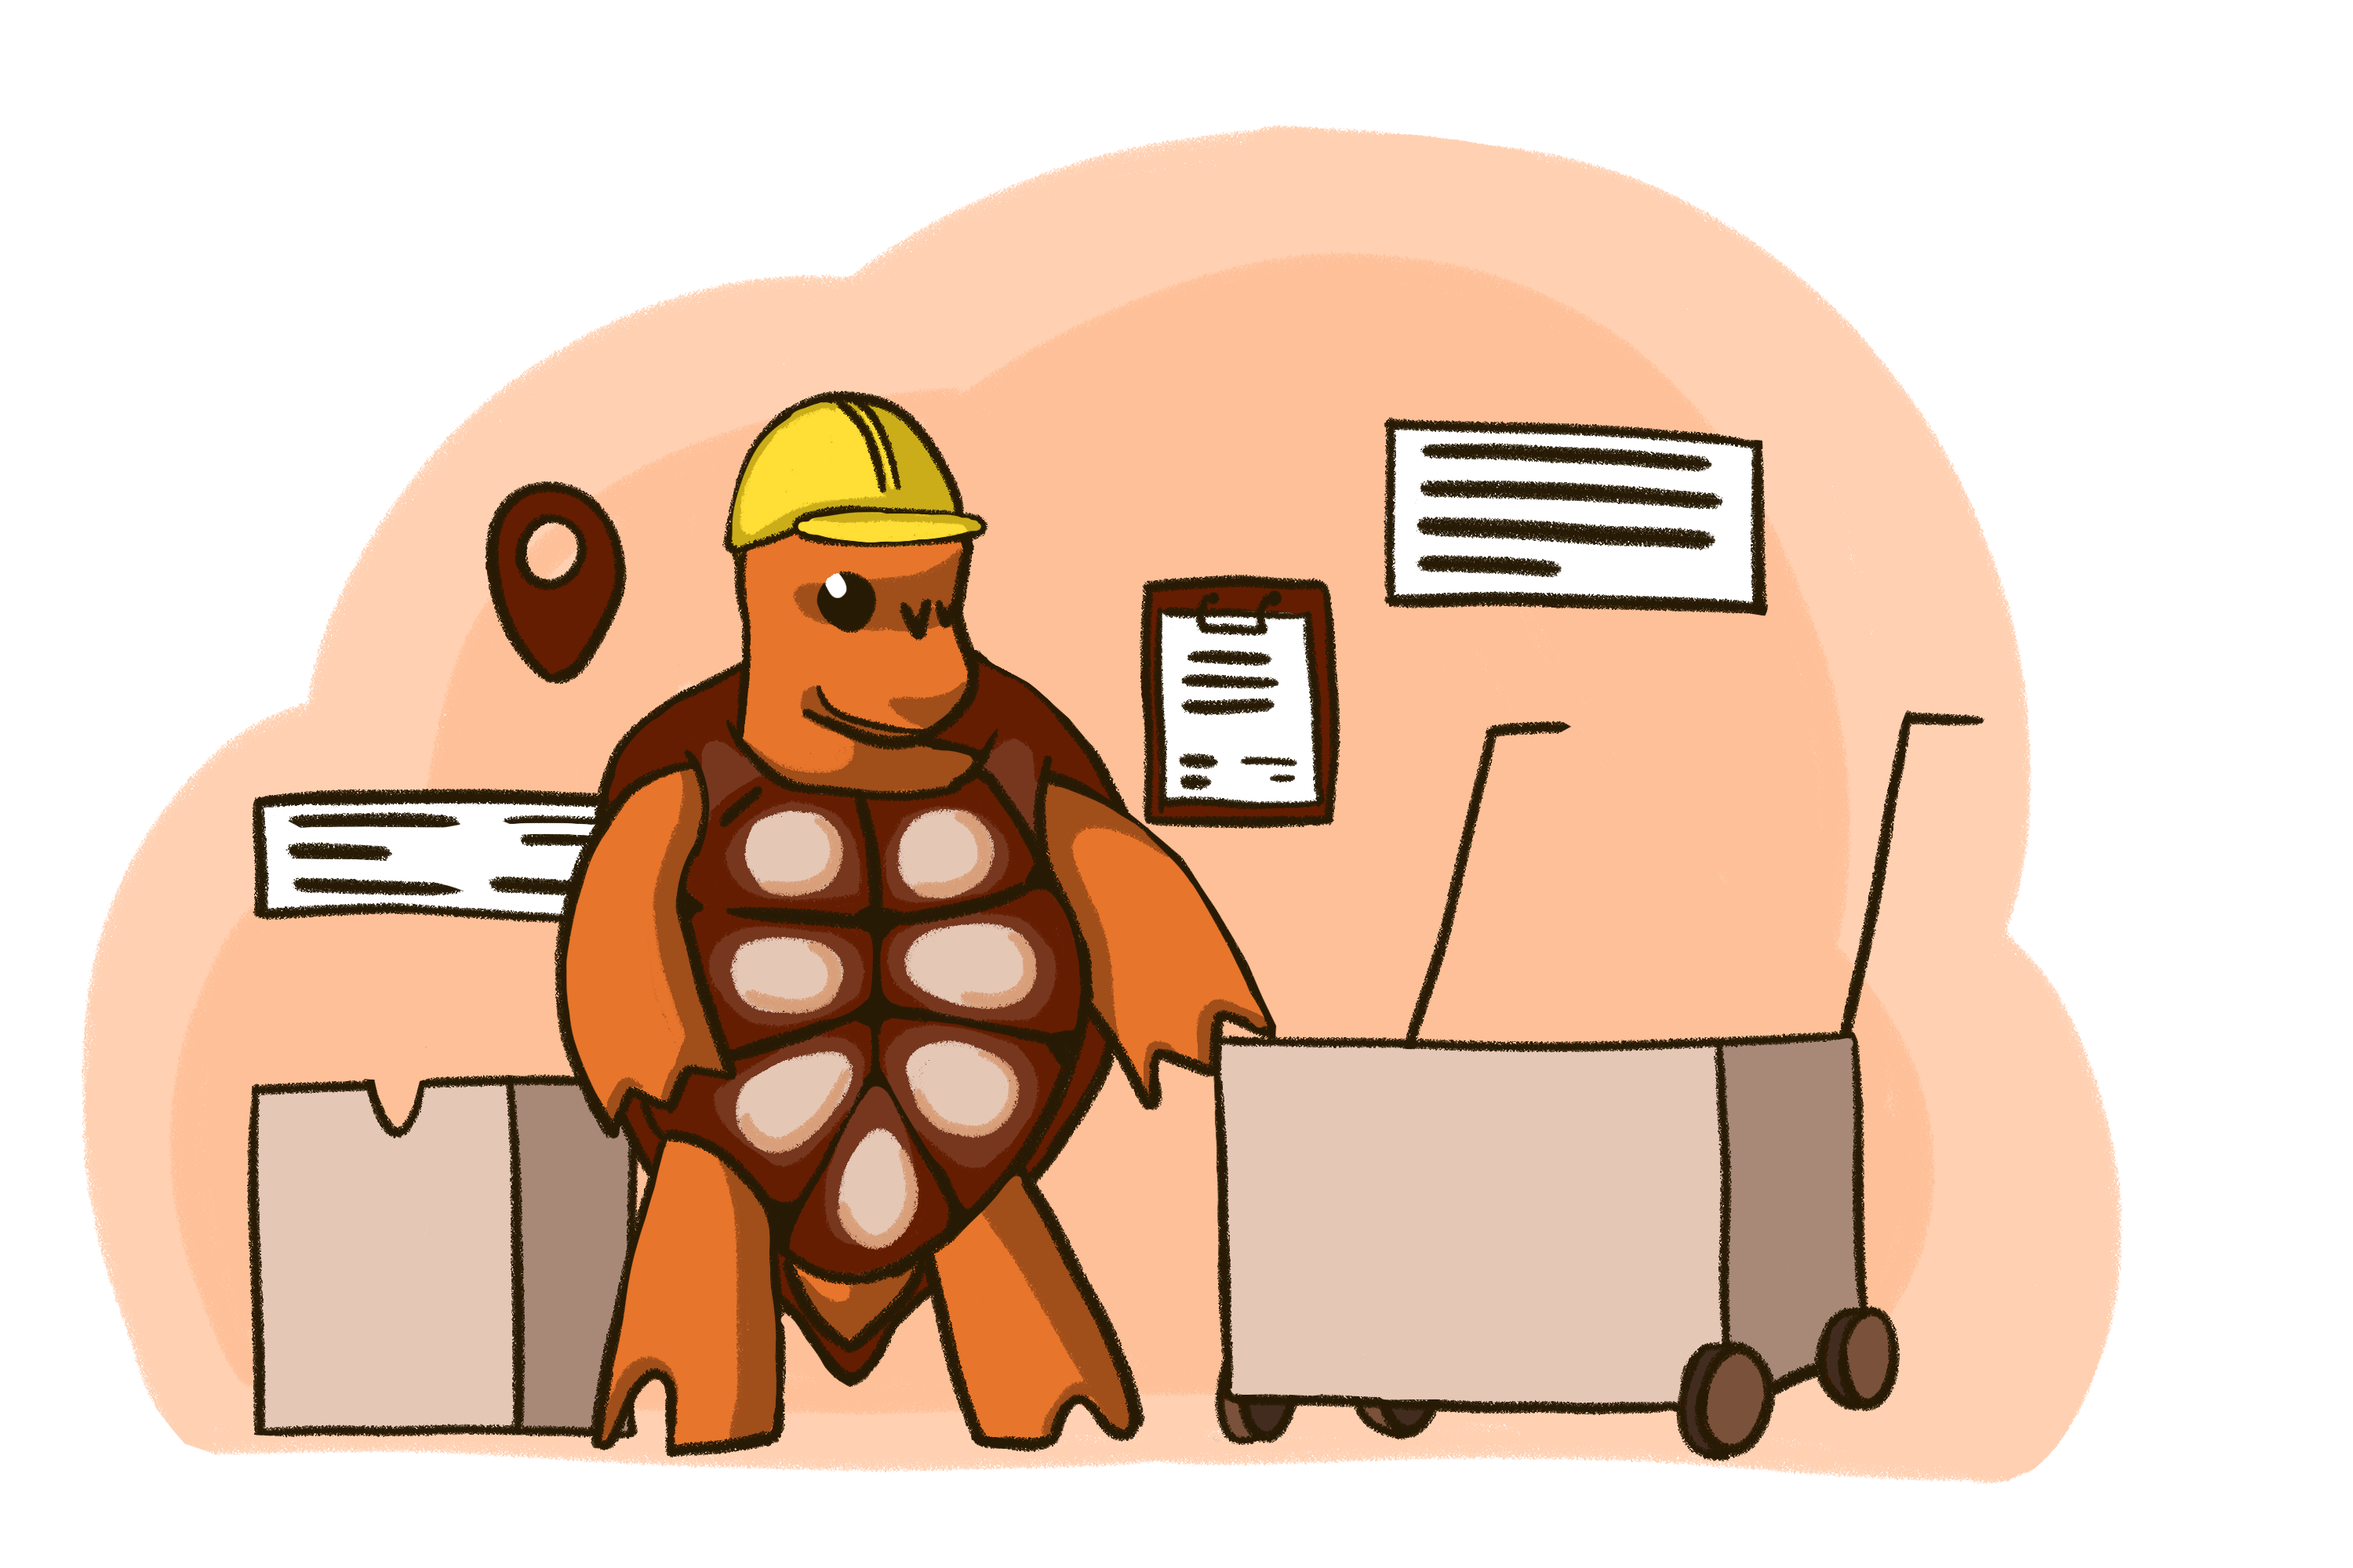
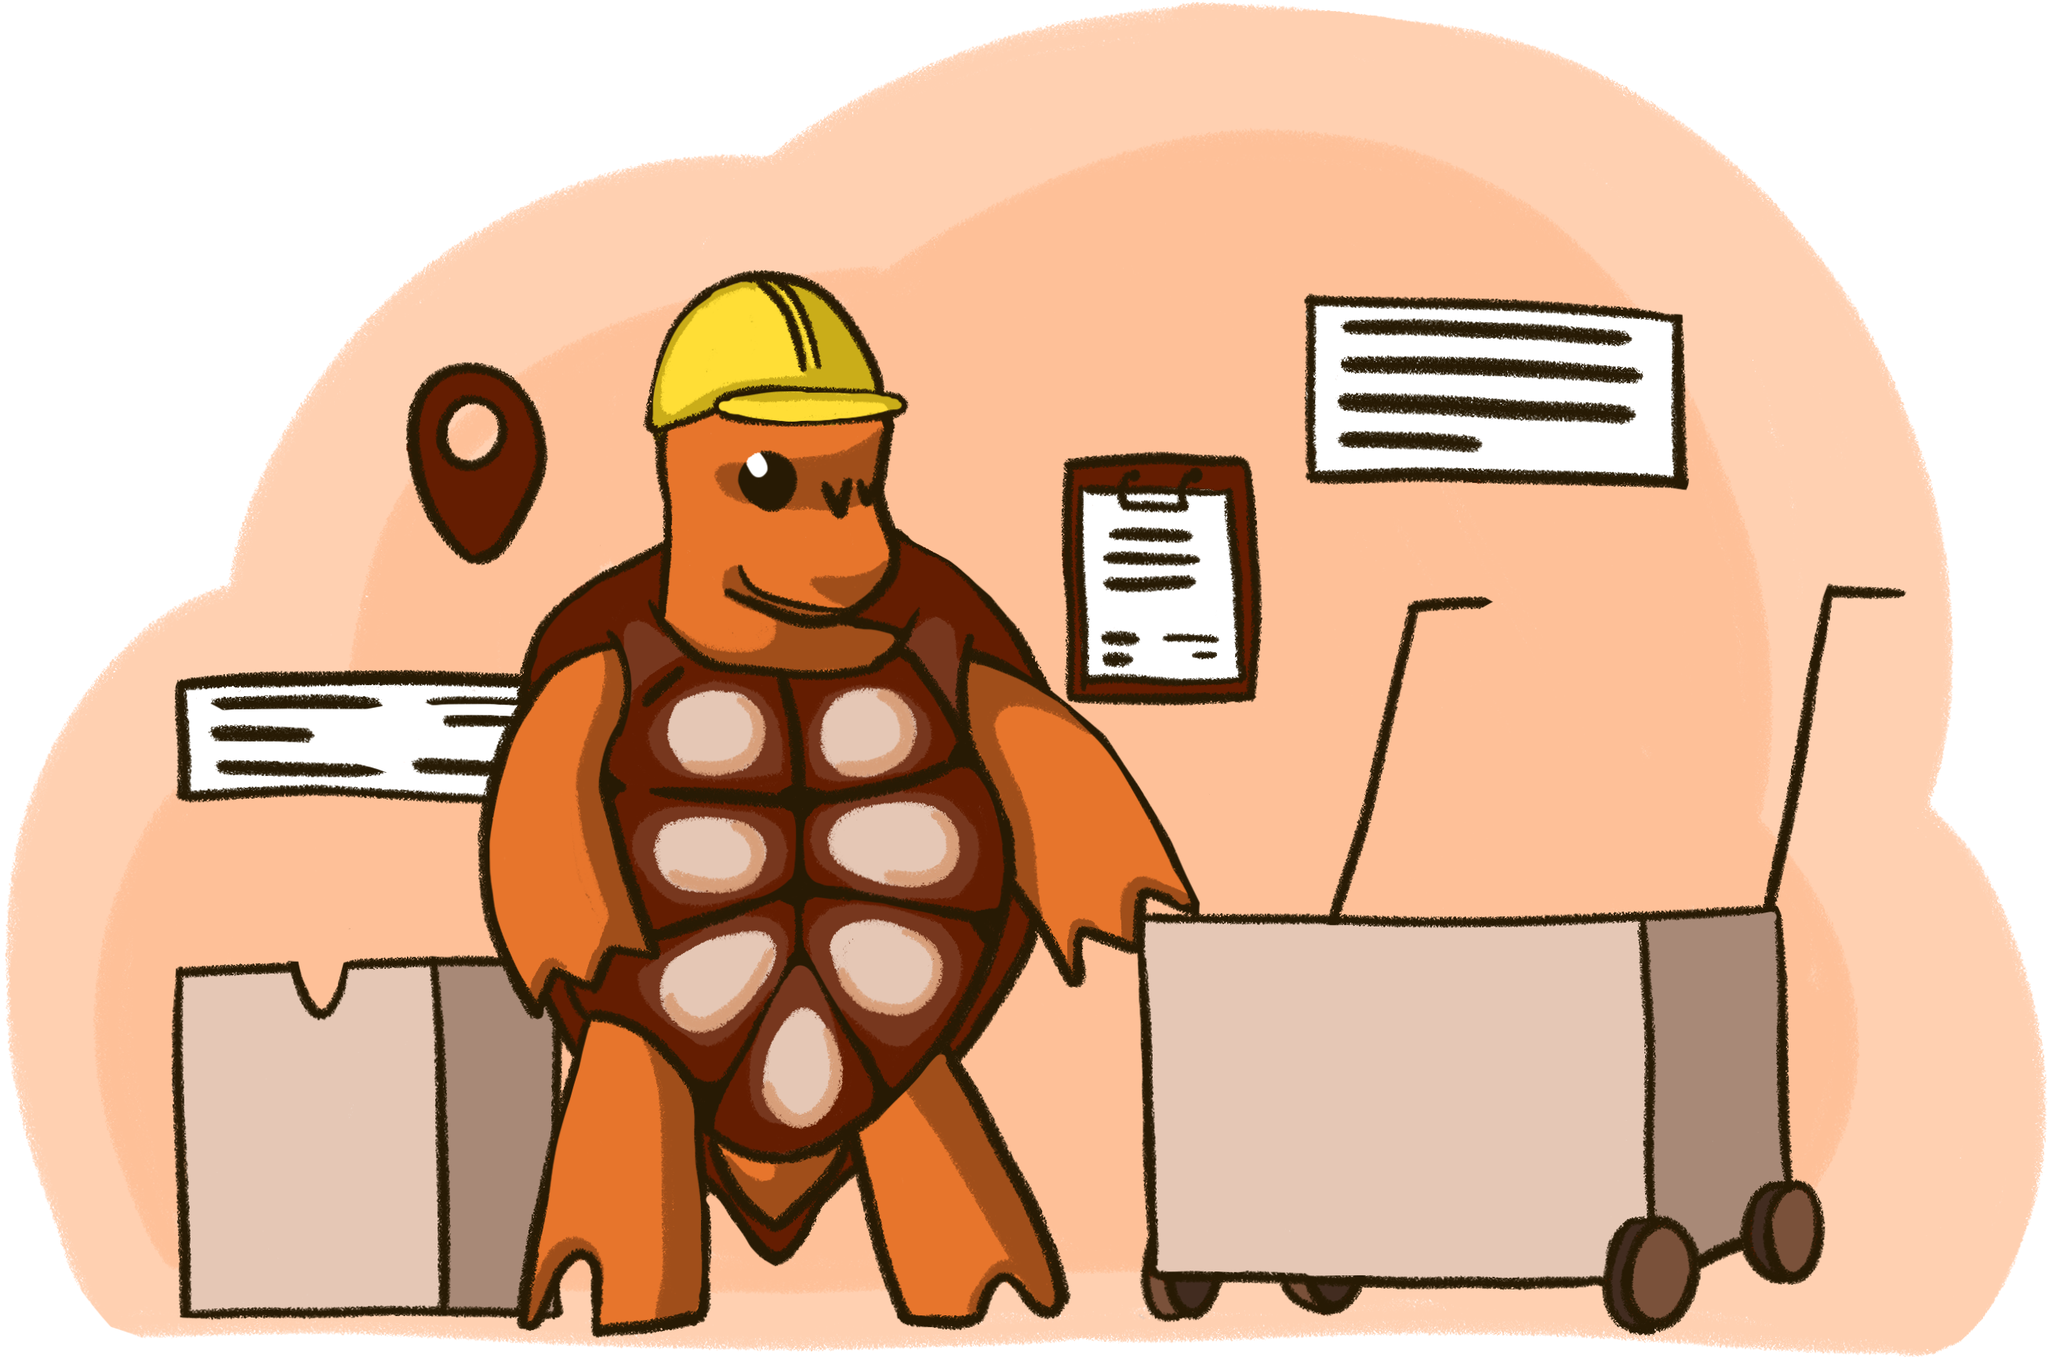
Fix axios instanse not using the Bearer token. Make About Us page. Change pictures size. Fix footer padding.

diff --git a/app/frontend/src/components/Layout/Footer.tsx b/app/frontend/src/components/Layout/Footer.tsx
@@ -3,74 +3,20 @@ import { Link } from "react-router-dom";
 export default function Footer() {
     return (
 
-        <footer className="w-fit mx-auto flex items-center justify-center gap-4">
+        <footer className="w-fit mx-auto flex items-center justify-center gap-4 mb-6">
 
                 <Link to='/' className="">
-                    <img className="w-24 pt-1" src="/logo.png" alt="logo"></img>
+                    <img className="w-24" src="/logo.png" alt="logo"></img>
                 </Link>
                 <div className="opacity-70 text-xs">
                     © {new Date().getFullYear()} Terrapin, Inc.
                 </div>
-                <Link to='/terms/' className="opacity-70 text-xs">
+                <Link to='/terms' className="opacity-70 text-xs">
                     Terms
                 </Link>
+                <Link to='/about' className="opacity-70 text-xs">
+                    About Us
+                </Link>
         </footer>
-        /*      <div className="w-[80%] mx-auto">
-                 <footer className="flex h-28 items-center border-t border-t-gray-200">
-                     <div className="flex-2">
-                         <Link to='/' className="flex items-center">
-                             <img src="/logo.png" alt=""></img>
-                         </Link>
-                         <p className="text-gray-500">© {new Date().getFullYear()}</p>
-                     </div>
-     
-     
-                     <div className="flex-[0.5] flex flex-col gap-2">
-                         <h5 className="text-xl font-medium mb-2">
-                             Сайт
-                         </h5>
-                         <ul className="text-gray-500">
-                             <li className="mb-2">
-                                 <Link to='/'>Главная</Link>
-                             </li>
-                             <li className="mb-2">
-                                 <Link to='/catalog'>Каталог</Link>
-                             </li>
-                         </ul>
-                     </div>
-     
-                     <div className="flex-[0.5] flex flex-col gap-2">
-                         <h5 className="text-xl font-medium mb-2">
-                             Покупателям
-                         </h5>
-                         <ul className="text-gray-500">
-                             <li className="mb-2">
-                                 <Link to='/account'>Аккаунт</Link>
-                             </li>
-                             <li className="mb-2">
-                                 <Link to='/orders'>Покупки</Link>
-                             </li>
-     
-                         </ul>
-                     </div>
-     
-                     <div className="flex-[0.5] flex flex-col gap-2">
-                         <h5 className="text-xl font-medium mb-2">
-                             Продавцам
-                         </h5>
-                         <ul className="text-gray-500">
-                             <li className="mb-2">
-                                 <Link to='/account'>Аккаунт</Link>
-                             </li>
-                             <li className="mb-2">
-                                 <Link to='/catalog'>Товары</Link>
-                             </li>
-                             <li className="mb-2">
-                                 <Link to='/map'>Карта складов</Link>
-                             </li>
-                         </ul>
-                     </div>
-                 </footer>
-             </div> */
     )
 }

diff --git a/app/frontend/src/pages/About.tsx b/app/frontend/src/pages/About.tsx
@@ -1,12 +1,44 @@
 
 export default function About() {
-    return <div>
-        <div className="w-[38rem] h-[38rem]">
-            <img className="w-full h-full" src='/zteam_logo.svg'></img>
-        </div>
-        <div className="text-[100px] text-center text-white font-sans">
-            Z-TEAM
-        </div>
-    </div>
-    
+    return (
+        <div className="w-8xl mx-auto h-[1500px]">
+            <h1 className="w-fit mx-auto font-bold text-3xl pt-6">О нас</h1>
+
+            <div className="pt-6 h-48">
+                <pre className="mx-auto w-fit">
+                    <span className="font-semibold text-lg">Terrapin</span> - проект команды <span className="font-semibold">Stronghold</span> для хакатона CodeRocks 2024
+                </pre>
+                <img className="w-xs ml-auto relative bottom-50" src="Img-page1.png"></img>
+            </div>
+
+
+            <pre className="mx-auto text-wrap w-fit">
+                Сервис имеет базовую систему регистрации, позволяя зарегистрироваться как покупатель или как продавец-компания.
+            </pre>
+            <div className="flex items-center">
+                <img className="w-xs" src="right_top.png"></img>
+                <pre>
+                    Компания может создавать товары и указать на интерактивной карте города, где находятся склады и пункты выдачи заказов.
+                </pre>
+
+            </div>
+            <div className="flex h-64 items-center">
+                <pre className="mr-4">
+                    Покупатель может "заказать" товар, выбрав нужный доступный пункт выдачи заказов компании, которая является владельцем этого товара.
+                </pre>
+                <img className="w-2xs mr-auto" src="left_top.png"></img>
+            </div>
+
+            <div className="pt-6">
+                <pre>
+                    Затем пользователю будет предложено на выбор два возможных маршрута - самый быстрый и самый дешёвый.
+                    Стоимость и время маршрута вычисляются с помощью теории графов.
+                </pre>
+                <img className="w-xs pt-4" src="turtle 3page.png"></img>
+            </div>
+            <img className="mx-auto pt-36" src="/logo.png"></img>
+
+        </div >
+    )
+
 }

diff --git a/app/frontend/src/pages/Catalog/Catalog.tsx b/app/frontend/src/pages/Catalog/Catalog.tsx
@@ -41,7 +41,7 @@ export default function CatalogAll() {
             </div>
         </div>
 
-        <div className="lg:w-5xl md:w-4xl sm:w-2xl w-36  mx-auto grid lg:grid-cols-5 md:grid-cols-3 sm:grid-cols-2 gap-x-12 gap-y-20">
+        <div className="lg:w-5xl md:w-4xl sm:w-2xl w-[24rem]  mx-auto grid lg:grid-cols-5 md:grid-cols-3 sm:grid-cols-2 grid-cols-2 gap-x-12 gap-y-20">
             {products.map((product, index) => {
                 return <Product product={product} key={index}></Product>
             })}

diff --git a/app/frontend/src/api/axios.api.ts b/app/frontend/src/api/axios.api.ts
@@ -1,8 +1,11 @@
 import axios from 'axios'
 import { getTokenFromLocalStorage } from '../helpers/localstorage.helper'
 
-export const instance = axios.create({
-    headers: {
-        Authorization: 'Bearer ' + getTokenFromLocalStorage()
-    }
-})
+const instance = axios.create();
+
+instance.interceptors.request.use((config) => {
+    config.headers.Authorization = 'Bearer ' + getTokenFromLocalStorage()
+    return config;
+});
+
+export { instance }
